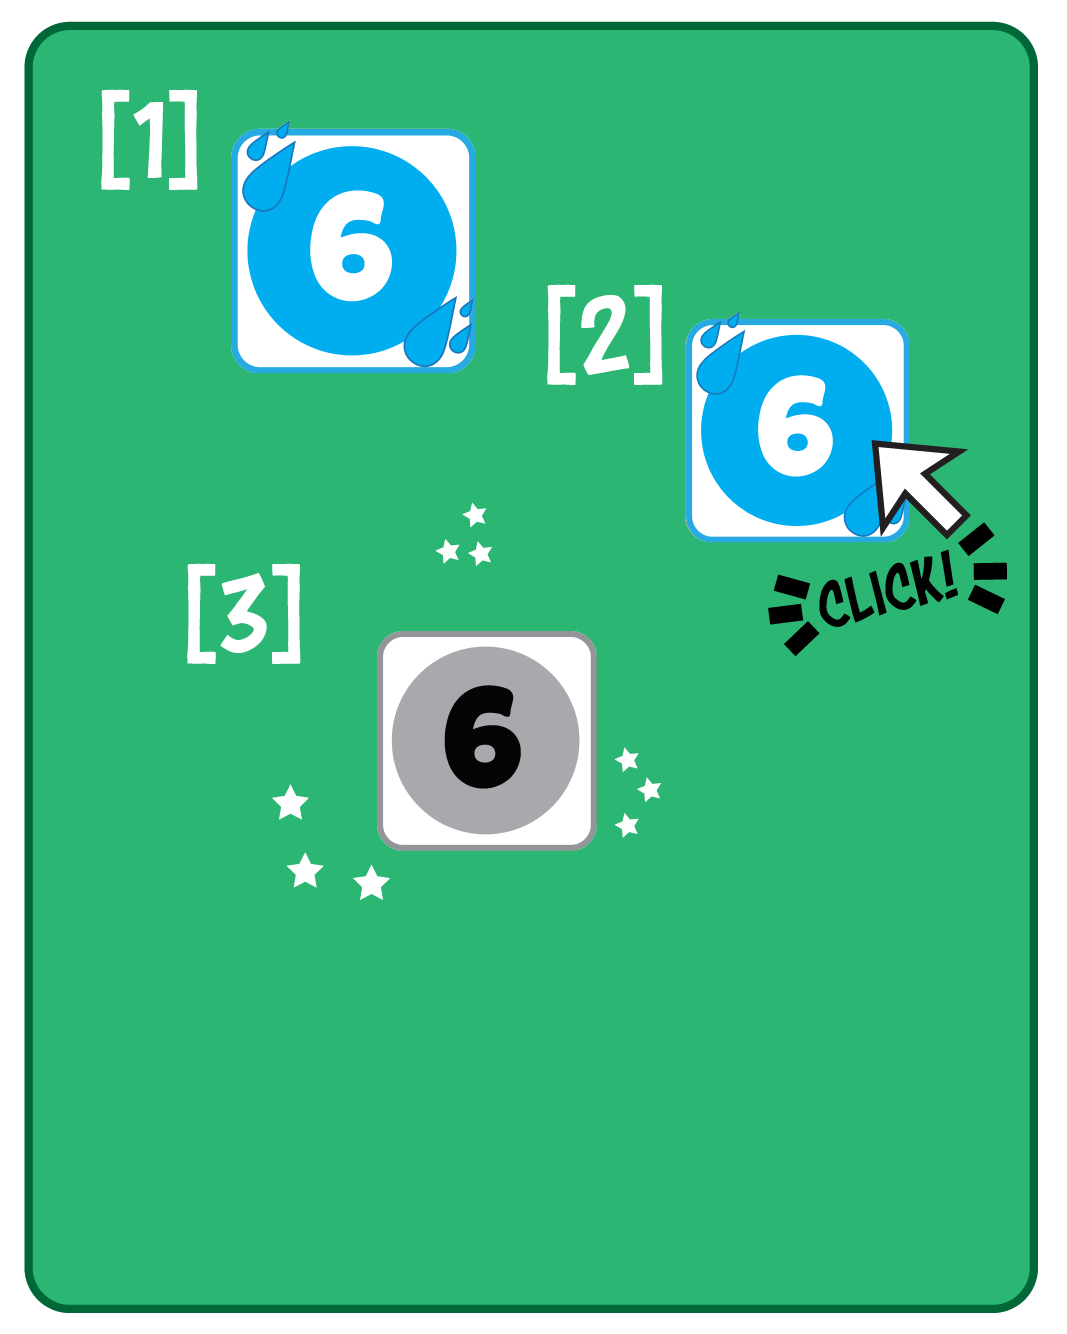
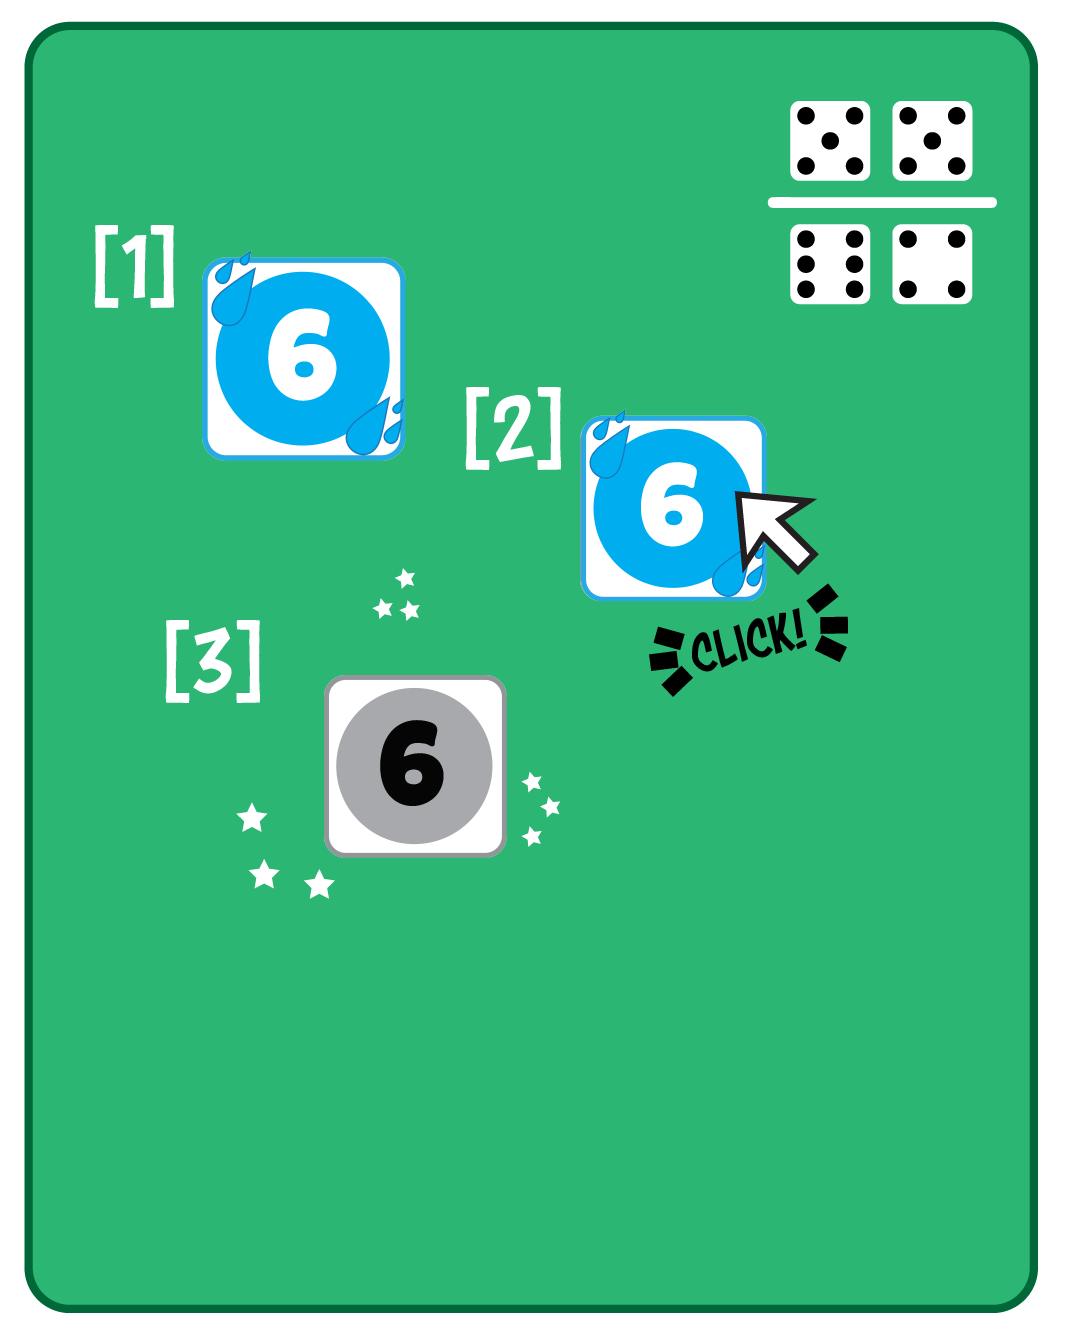
The last of the Learn images
- Added the rest of the learn images
- Modified the text in Home.js for Learn modal

Changed region(s): [[0.0619, 0.0615, 0.9588, 0.6762], [0.1546, 0.3996, 0.2784, 0.5532]]

diff --git a/client/src/pages/Home.js b/client/src/pages/Home.js
@@ -6,6 +6,10 @@ import sunWins from '../images/SunWins.png';
 import welcome from '../images/Welcome.png';
 import claim from '../images/Claim.png';
 import rollTen from '../images/RollTen.png';
+import replaceColor from '../images/ReplaceColor.png';
+import rollEleven from '../images/RollEleven.png';
+import rollTwoOrTwelve from '../images/RollTwoOrTwelve.png';
+import haveFun from '../images/HaveFun.png';
 
 import Carousel from 'react-bootstrap/Carousel';
 const { v4: uuidv4 } = require('uuid');
@@ -14,13 +18,13 @@ const pages = [
   {
     title: 'Welcome',
     picture: welcome,
-    information: 'Welcome to [ Array ] a game for 2 to 3 players',
+    information: 'Welcome to ARRAY! A game for 2 to 3 players',
     key: 1,
   },
   {
     title: 'Goal of Game',
     picture: sunWins,
-    information: `The object of the game is to make an ARRAY before your opponents do, an ARRAY is 6 tiles in a line with your color on it. (5 if you're playing 3 players)`,
+    information: `The object of the game is to score an ARRAY before your opponents do, an ARRAY is 6 tiles in a line with your color on it. (5 if you're playing with 3 players)`,
     key: 2,
   },
   {
@@ -37,32 +41,32 @@ const pages = [
   },
   {
     title: 'How to play',
-    picture: rollTen,
-    information: `If all tiles of a number are occupied by your opponents colors, you can choose one of their tiles and turn into your color`,
+    picture: replaceColor,
+    information: `If all tiles of a number are occupied by your opponents colors, you can choose one of their tiles and replace it with your color`,
     key: 5,
   },
   {
     title: 'How to play',
-    picture: '',
+    picture: rollTen,
     information: `You'll notice on the board that 10 and 11 are missing. If you roll a 10 then you must remove one of your opponents tiles. `,
     key: 6,
   },
   {
     title: 'How to play',
-    picture: '',
+    picture: rollEleven,
     information: `If you roll an 11, this is considered a wild and you can place your tile on any free space. If there are no free spaces then you can place it on any occupied tile.
     `,
     key: 7,
   },
   {
     title: 'How to play',
-    picture: '',
+    picture: rollTwoOrTwelve,
     information: `If you roll a 2 or 12 you will place your tile on a 2 or 12 space and then take another turn`,
     key: 8,
   },
   {
     title: 'Have Fun!',
-    picture: '',
+    picture: haveFun,
     information: `Have fun and be kind to each other!`,
     key: 9,
   },
